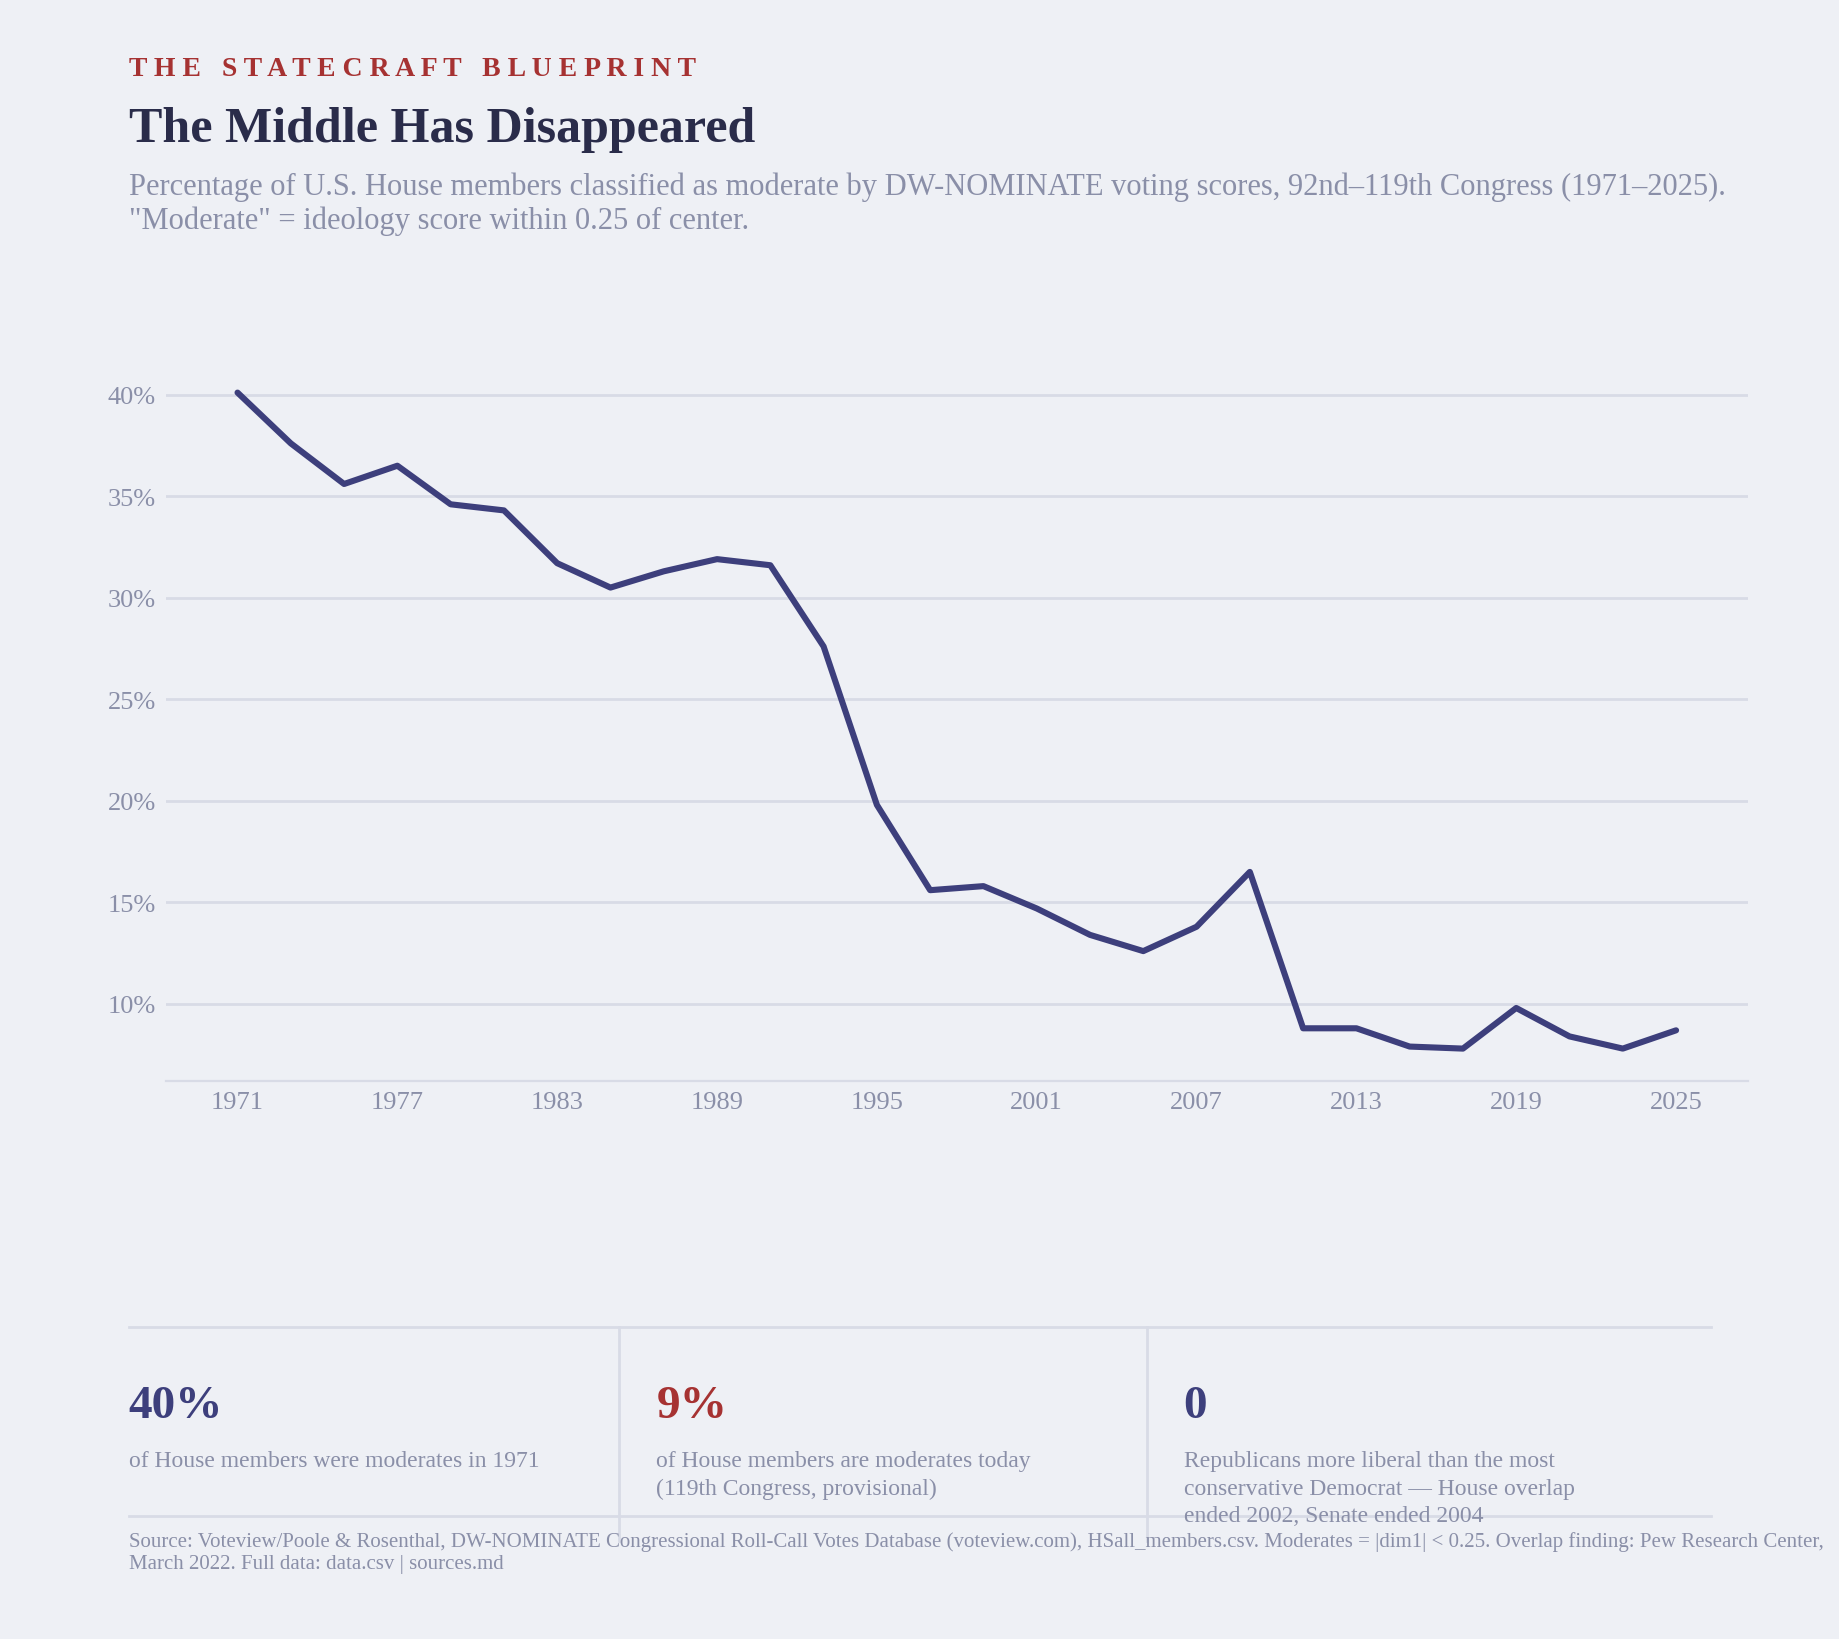
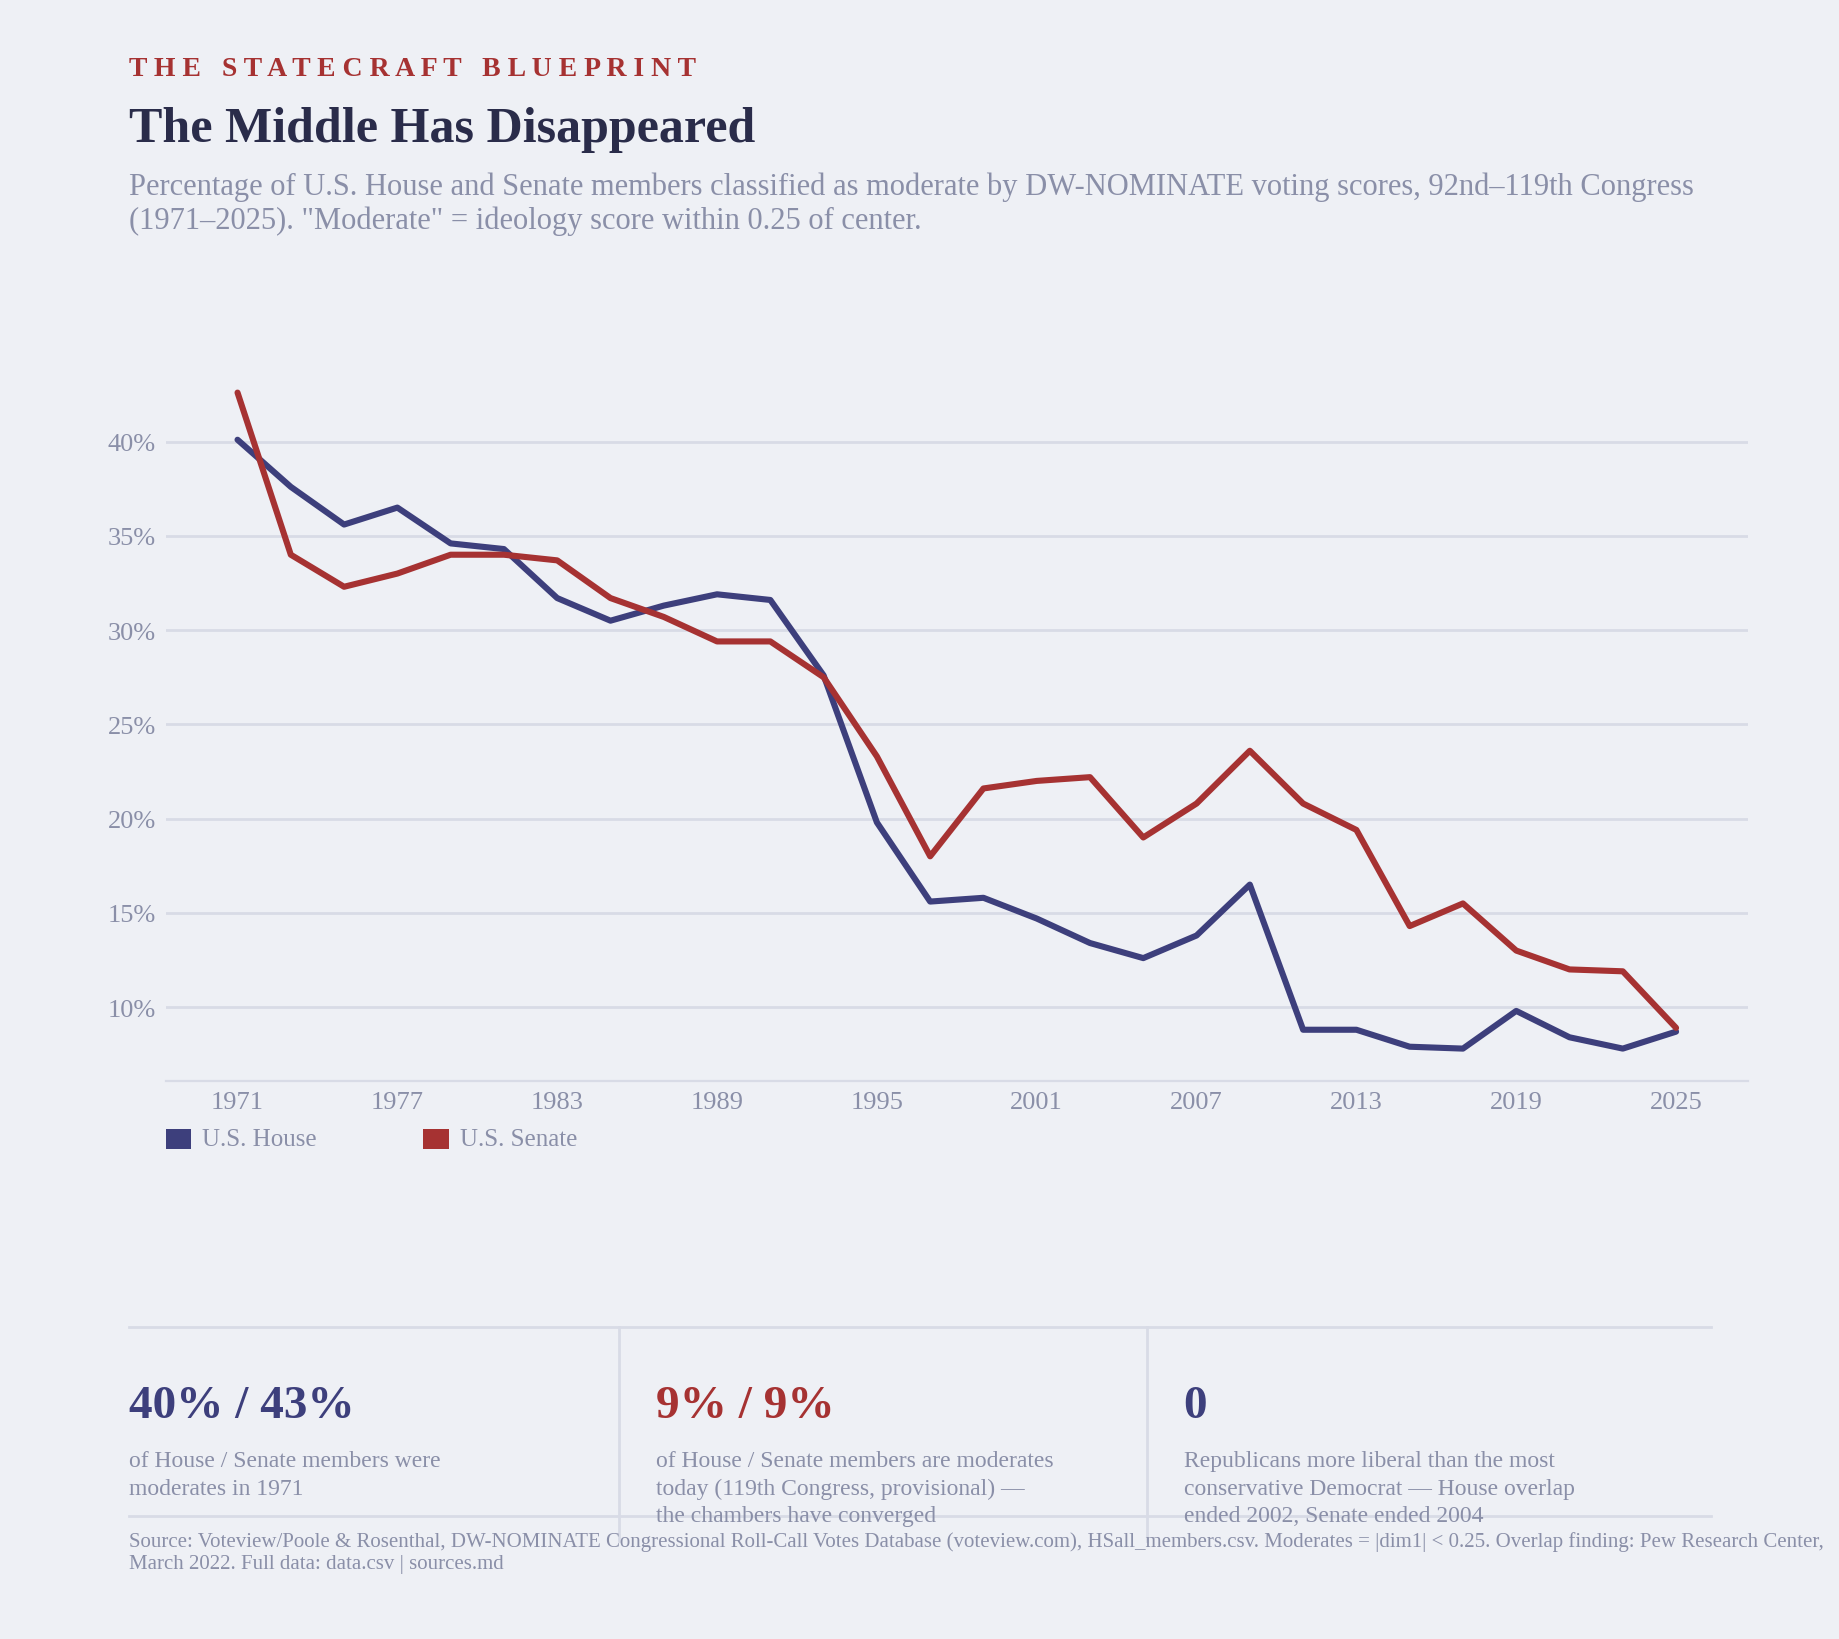
Added senate to chart

diff --git a/book/obs05-moderate-decline/chart.html b/book/obs05-moderate-decline/chart.html
@@ -20,8 +20,11 @@
     h2 { color: #2a2c4a; font-size: 20px; font-weight: normal; margin: 0 0 6px; line-height: 1.3; }
     .subtitle { color: #8a8fa8; font-size: 13px; margin: 0 0 28px; line-height: 1.5; }
     .chart-wrap { position: relative; height: 360px; }
+    .legend { display: flex; gap: 24px; margin-top: 14px; flex-wrap: wrap; }
+    .legend-item { display: flex; align-items: center; gap: 8px; font-size: 11px; color: #8a8fa8; }
+    .legend-swatch { width: 12px; height: 12px; border-radius: 2px; flex-shrink: 0; }
     .callouts { display: flex; margin-top: 24px; border-top: 1px solid #d8dbe6; padding-top: 20px; flex-wrap: wrap; }
-    .callout { flex: 1; min-width: 160px; padding-right: 20px; border-right: 1px solid #d8dbe6; }
+    .callout { flex: 1; min-width: 170px; padding-right: 20px; border-right: 1px solid #d8dbe6; }
     .callout:last-child { border-right: none; }
     .callout + .callout { padding-left: 20px; }
     .callout-num { font-size: 26px; font-weight: bold; line-height: 1; letter-spacing: -0.02em; }
@@ -35,23 +38,30 @@
     <div class="eyebrow">The Statecraft Blueprint</div>
     <h2>The Middle Has Disappeared</h2>
     <p class="subtitle">
-      Percentage of U.S. House members classified as moderate by DW-NOMINATE voting scores,
-      92nd–119th Congress (1971–2025). A "moderate" is defined as a member whose ideology
+      Percentage of U.S. House and Senate members classified as moderate by DW-NOMINATE voting
+      scores, 92nd–119th Congress (1971–2025). A "moderate" is defined as a member whose ideology
       score falls within 0.25 of center — neither strongly liberal nor strongly conservative.
+      Both chambers decline along the same broad trajectory, though the Senate declined later
+      and more gradually before converging with the House in the last decade.
     </p>
 
     <div class="chart-wrap">
       <canvas id="chart"></canvas>
     </div>
 
+    <div class="legend">
+      <div class="legend-item"><div class="legend-swatch" style="background:#3d3f7c;"></div>U.S. House</div>
+      <div class="legend-item"><div class="legend-swatch" style="background:#a63232;"></div>U.S. Senate</div>
+    </div>
+
     <div class="callouts">
       <div class="callout">
-        <div class="callout-num" style="color:#3d3f7c">40%</div>
-        <div class="callout-label">of House members were<br>moderates in 1971</div>
+        <div class="callout-num" style="color:#3d3f7c">40% / 43%</div>
+        <div class="callout-label">of House / Senate members<br>were moderates in 1971</div>
       </div>
       <div class="callout">
-        <div class="callout-num" style="color:#a63232">9%</div>
-        <div class="callout-label">of House members are<br>moderates today (119th Congress,<br>provisional)</div>
+        <div class="callout-num" style="color:#a63232">9% / 9%</div>
+        <div class="callout-label">of House / Senate members are<br>moderates today (119th Congress,<br>provisional) — the two chambers<br>have converged</div>
       </div>
       <div class="callout">
         <div class="callout-num" style="color:#3d3f7c">0</div>
@@ -73,7 +83,7 @@
   </div>
 
   <script>
-    const data = [
+    const houseData = [
       {year:1971,pct:40.1},{year:1973,pct:37.6},{year:1975,pct:35.6},
       {year:1977,pct:36.5},{year:1979,pct:34.6},{year:1981,pct:34.3},
       {year:1983,pct:31.7},{year:1985,pct:30.5},{year:1987,pct:31.3},
@@ -86,8 +96,22 @@
       {year:2025,pct:8.7},
     ];
 
-    const labels = data.map(d => d.year);
-    const values = data.map(d => d.pct);
+    const senateData = [
+      {year:1971,pct:42.6},{year:1973,pct:34.0},{year:1975,pct:32.3},
+      {year:1977,pct:33.0},{year:1979,pct:34.0},{year:1981,pct:34.0},
+      {year:1983,pct:33.7},{year:1985,pct:31.7},{year:1987,pct:30.7},
+      {year:1989,pct:29.4},{year:1991,pct:29.4},{year:1993,pct:27.5},
+      {year:1995,pct:23.3},{year:1997,pct:18.0},{year:1999,pct:21.6},
+      {year:2001,pct:22.0},{year:2003,pct:22.2},{year:2005,pct:19.0},
+      {year:2007,pct:20.8},{year:2009,pct:23.6},{year:2011,pct:20.8},
+      {year:2013,pct:19.4},{year:2015,pct:14.3},{year:2017,pct:15.5},
+      {year:2019,pct:13.0},{year:2021,pct:12.0},{year:2023,pct:11.9},
+      {year:2025,pct:8.9},
+    ];
+
+    const labels = houseData.map(d => d.year);
+    const houseValues = houseData.map(d => d.pct);
+    const senateValues = senateData.map(d => d.pct);
 
     const canvas = document.getElementById('chart');
     const ctx = canvas.getContext('2d');
@@ -100,19 +124,36 @@
       type: 'line',
       data: {
         labels,
-        datasets: [{
-          data: values,
-          borderColor: '#3d3f7c',
-          borderWidth: 2.5,
-          backgroundColor: grad,
-          fill: true,
-          pointRadius: 0,
-          pointHoverRadius: 5,
-          pointHoverBackgroundColor: '#3d3f7c',
-          pointHoverBorderColor: '#eef0f5',
-          pointHoverBorderWidth: 2,
-          tension: 0.3,
-        }]
+        datasets: [
+          {
+            label: 'U.S. House',
+            data: houseValues,
+            borderColor: '#3d3f7c',
+            borderWidth: 2.5,
+            backgroundColor: grad,
+            fill: true,
+            pointRadius: 0,
+            pointHoverRadius: 5,
+            pointHoverBackgroundColor: '#3d3f7c',
+            pointHoverBorderColor: '#eef0f5',
+            pointHoverBorderWidth: 2,
+            tension: 0.3,
+          },
+          {
+            label: 'U.S. Senate',
+            data: senateValues,
+            borderColor: '#a63232',
+            borderWidth: 2,
+            backgroundColor: 'transparent',
+            fill: false,
+            pointRadius: 0,
+            pointHoverRadius: 5,
+            pointHoverBackgroundColor: '#a63232',
+            pointHoverBorderColor: '#eef0f5',
+            pointHoverBorderWidth: 2,
+            tension: 0.3,
+          }
+        ]
       },
       options: {
         responsive: true,
@@ -131,7 +172,7 @@
             padding: 12,
             callbacks: {
               title: items => `${labels[items[0].dataIndex]}`,
-              label: item => `${item.raw.toFixed(1)}% of House members were moderate`,
+              label: item => `${item.dataset.label}: ${item.raw.toFixed(1)}% moderate`,
             }
           },
         },

diff --git a/book/obs05-moderate-decline/sources.md b/book/obs05-moderate-decline/sources.md
@@ -7,7 +7,7 @@
 
 ## What This Chart Shows
 
-The percentage of U.S. House members classified as "moderate" by DW-NOMINATE scoring, 92nd–119th Congresses (1971–2025).
+The percentage of U.S. House and Senate members classified as "moderate" by DW-NOMINATE scoring, 92nd–119th Congresses (1971–2025). Both chambers are shown on the same chart because they decline along the same broad trajectory — see "Real volatility and the House/Senate lag" below for how closely, and where they differ.
 
 **Definition of "moderate":** Members whose first-dimension DW-NOMINATE score falls between -0.25 and +0.25. This is the standard threshold used by Voteview/Poole & Rosenthal in their published polarization analyses. The first dimension captures the primary liberal-conservative spectrum (economic and governmental role). A score of 0 is perfectly centrist; -1 is most liberal; +1 is most conservative.
 
@@ -33,11 +33,12 @@ The percentage of U.S. House members classified as "moderate" by DW-NOMINATE sco
 
 ## Methodology Notes
 
-- **Data derivation (rebuilt July 2026):** Every value in `data.csv` is computed directly from `HSall_members.csv` — not interpolated, not derived from published summary graphs. For each Congress, 92nd through 119th, the chart filters to `chamber == "House"` and `party_code` in `{100, 200}` (Democrats and Republicans only — see "Party coding" below), then computes the percentage of those members whose `|nominate_dim1| < 0.25`. Members with no NOMINATE score on file for that Congress (typically those who served too briefly to generate a reliable estimate) are excluded from both the numerator and denominator for that Congress. Party and Congress fields in the source file are stored as floats for some Congresses (e.g. `100.0`) and as plain integers for others — both are parsed and treated identically.
+- **Data derivation (rebuilt July 2026):** Every value in `data.csv` is computed directly from `HSall_members.csv` — not interpolated, not derived from published summary graphs. For each Congress, 92nd through 119th, the chart filters to `chamber == "House"` or `chamber == "Senate"` and `party_code` in `{100, 200}` (Democrats and Republicans only — see "Party coding" below), then computes the percentage of those members whose `|nominate_dim1| < 0.25`, separately for each chamber. Members with no NOMINATE score on file for that Congress (typically those who served too briefly to generate a reliable estimate) are excluded from both the numerator and denominator for that Congress. Party and Congress fields in the source file are stored as floats for some Congresses (e.g. `100.0`) and as plain integers for others — both are parsed and treated identically.
 - **What counts as "moderate":** |DW-NOMINATE dim1| < 0.25. This threshold was chosen by Voteview and is used consistently throughout the literature.
 - **Party coding:** Only Democrats (ICPSR 100) and Republicans (ICPSR 200) included. Independents, third-party members, and the President (also listed in this file) excluded.
-- **Member counts vary by Congress:** Voteview's member file includes everyone who served and cast roll-call votes during a Congress, including members who filled a seat mid-term after a death, resignation, or special election. This means the denominator for a given Congress is sometimes above the nominal 435 seats (e.g. the 111th Congress has 452 House D+R members on file). This is the standard Voteview convention and is not an error.
-- **Real volatility:** The recomputed series is not monotonic. Reading Congress-over-Congress, the moderate share of the House rose (rather than fell) in eight of the twenty-seven transitions in this series — 1977, 1987, 1989, 1999, 2007, 2009, 2019, and 2025. The clearest example is 2007–2011: moderate share rose from 12.6% (109th) to 13.8% (110th) to 16.5% (111th), then fell sharply to 8.8% (112th). This chart does not attempt to explain those reversals — it only reports them, since they are real and were absent from the earlier fabricated version of this chart.
+- **Member counts vary by Congress:** Voteview's member file includes everyone who served and cast roll-call votes during a Congress, including members who filled a seat mid-term after a death, resignation, or special election. This means the denominator for a given Congress is sometimes above the nominal 435 House seats or 100 Senate seats (e.g. the 111th Congress has 452 House D+R members on file). This is the standard Voteview convention and is not an error.
+- **Real volatility:** Neither series is monotonic. Reading Congress-over-Congress, House moderate share rose (rather than fell) in eight of the twenty-seven transitions in this series — 1977, 1987, 1989, 1999, 2007, 2009, 2019, and 2025. The clearest example is 2007–2011: House moderate share rose from 12.6% (109th) to 13.8% (110th) to 16.5% (111th), then fell sharply to 8.8% (112th). The Senate shows a comparable number of reversals over the same period. This chart does not attempt to explain those reversals — it only reports them, since they are real and were absent from the earlier fabricated version of this chart.
+- **Real volatility and the House/Senate lag:** The two chambers decline along the same broad trajectory and land in nearly the same place — 8.7% (House) and 8.9% (Senate) in the 119th Congress, down from 40.1% and 42.6% respectively in 1971. But they don't move in lockstep the whole way: the Senate's decline was slower and later than the House's for roughly two decades. Through the late 1990s and 2000s, Senate moderate share stayed in the high-teens to low-20s (e.g. 22.2% in the 108th Congress, 2003) while the House had already fallen into the low teens (13.4% that same Congress). The Senate did not fall to House-like levels until the 2010s, and the two converge only in the most recent Congresses. Both chambers show the same direction of travel and land at nearly the same endpoint; the path there was not identical.
 - **The 1974 inflection (marker removed July 2026 — see Corrections):** The chart previously drew a reference line at 1974, marking the mid-1970s as the beginning of the accelerating decline and tying it to the transparency reform sequence (1970-1974 LRA/FECA) — the argument made explicitly in the Convergence synthesis chart (`book/convergence`), not yet in this Chapter 2 observation chart. The line was removed for that reason; the research observation itself is still valid and worth keeping here: Poole & Rosenthal note "Polarization was then fairly stable until the late 1970s and has been increasing steadily," which is consistent with the mid-1970s inflection visible in the data even without a drawn marker.
 - **The 1994 marker (removed July 2026 — see Corrections):** The chart previously drew a reference line at 1994 as well. It has been removed for the same reason as the 1974 marker — this Chapter 2 observation chart has not yet made any causal argument about what drove the decline, and the marker's write-up named a specific mechanism the book hasn't introduced yet. See Corrections below.
 - **119th Congress:** In session at the time of this data pull (July 2026); NOMINATE scores for the current Congress are provisional and will be finalized after it concludes.
@@ -46,9 +47,9 @@ The percentage of U.S. House members classified as "moderate" by DW-NOMINATE sco
 
 ## Key Statistics for Essay Reference
 
-- 1971: 40.1% of House members were moderates (92nd Congress) — direct calculation from Voteview data
-- 2025: 8.7% of House members were moderates (119th Congress, provisional — still in session)
-- 2013: 8.8% of House members were moderates (113th Congress)
+- 1971: 40.1% of House members and 42.6% of Senators were moderates (92nd Congress) — direct calculation from Voteview data
+- 2025: 8.7% of House members and 8.9% of Senators were moderates (119th Congress, provisional — still in session) — the two chambers have converged to nearly the same figure
+- 2013: 8.8% of House members were moderates (113th Congress); the Senate did not reach a comparable level until several Congresses later
 - Party overlap in the House ended in 2002: Rep. Constance Morella (R-MD) was defeated for re-election and Rep. Benjamin Gilman (R-NY) retired, removing the last Republicans more liberal than the most conservative Democrats. Party overlap in the Senate ended in 2004, when Sen. Zell Miller (D-GA) retired. Since those points, 0 Republicans in either chamber have been more liberal than the most conservative Democrat — not "approximately zero." Source: Pew Research Center, "The Polarization in Today's Congress Has Roots That Go Back Decades" (March 2022).
 
 ---
@@ -62,6 +63,7 @@ The percentage of U.S. House members classified as "moderate" by DW-NOMINATE sco
 | 2026-07-17 | **Removed the 1994 reference-line marker.** Removed for consistency with the other Chapter 2 charts, for the same reason the 1974 marker was removed above: this chapter has not yet made any causal argument about what drove the decline, and the marker's write-up named a specific mechanism from later in the book. That mechanism is not restated here. |
 | 2026-07-17 | **Corrected a false sourcing claim.** This file previously stated that "the Voteview direct CSV was not publicly accessible at time of publication." That was false — `HSall_members.csv` is a public, permanently-hosted file at the URL listed above and always has been. The claim has been removed; see the rebuilt Methodology Notes for how the data was actually obtained. |
 | 2026-07-17 | **Tightened the party-overlap callout.** The chart previously stated "~0 Republicans more liberal than the most conservative Democrat." The finding is exact, not approximate: per Pew Research Center (March 2022), House overlap ended in 2002 (Rep. Constance Morella defeated, Rep. Benjamin Gilman retired) and Senate overlap ended in 2004 (Sen. Zell Miller retired). The callout and this document now say "0" and cite the specific members and dates. |
+| 2026-07-17 | **Added the Senate as a second series.** The chart was House-only; the party-overlap callout already referenced the Senate, which was an inconsistency in an otherwise single-chamber chart. `data.csv` now carries both chambers (with Democrat/Republican breakdowns for each), the chart plots House (navy) and Senate (oxblood) as two lines with a legend, and the callout row reports both chambers side by side. The two series decline along the same broad trajectory and converge to nearly the same figure today, though the Senate's decline lagged the House's by roughly two decades before catching down — see "Real volatility and the House/Senate lag" above. |
 
 ---
 
@@ -72,5 +74,6 @@ The percentage of U.S. House members classified as "moderate" by DW-NOMINATE sco
 | May 2026 | Initial publication | TSB |
 | July 2026 | Removed chart-specific 1974 marker; kept the 1994 marker at that time | TSB |
 | July 2026 | Full data rebuild from primary Voteview source; removed 1994 marker; dropped unsupported "no reversal" callout; corrected false CSV-accessibility claim; tightened overlap callout to exact figures (see Corrections above) | TSB |
+| July 2026 | Added the Senate as a second series alongside the House (see Corrections above) | TSB |
 
 *If you believe a data point is incorrect, please open an issue at https://github.com/The-Statecraft-Blueprint/tsb-assets or contact us at statecraftblueprint.org.*